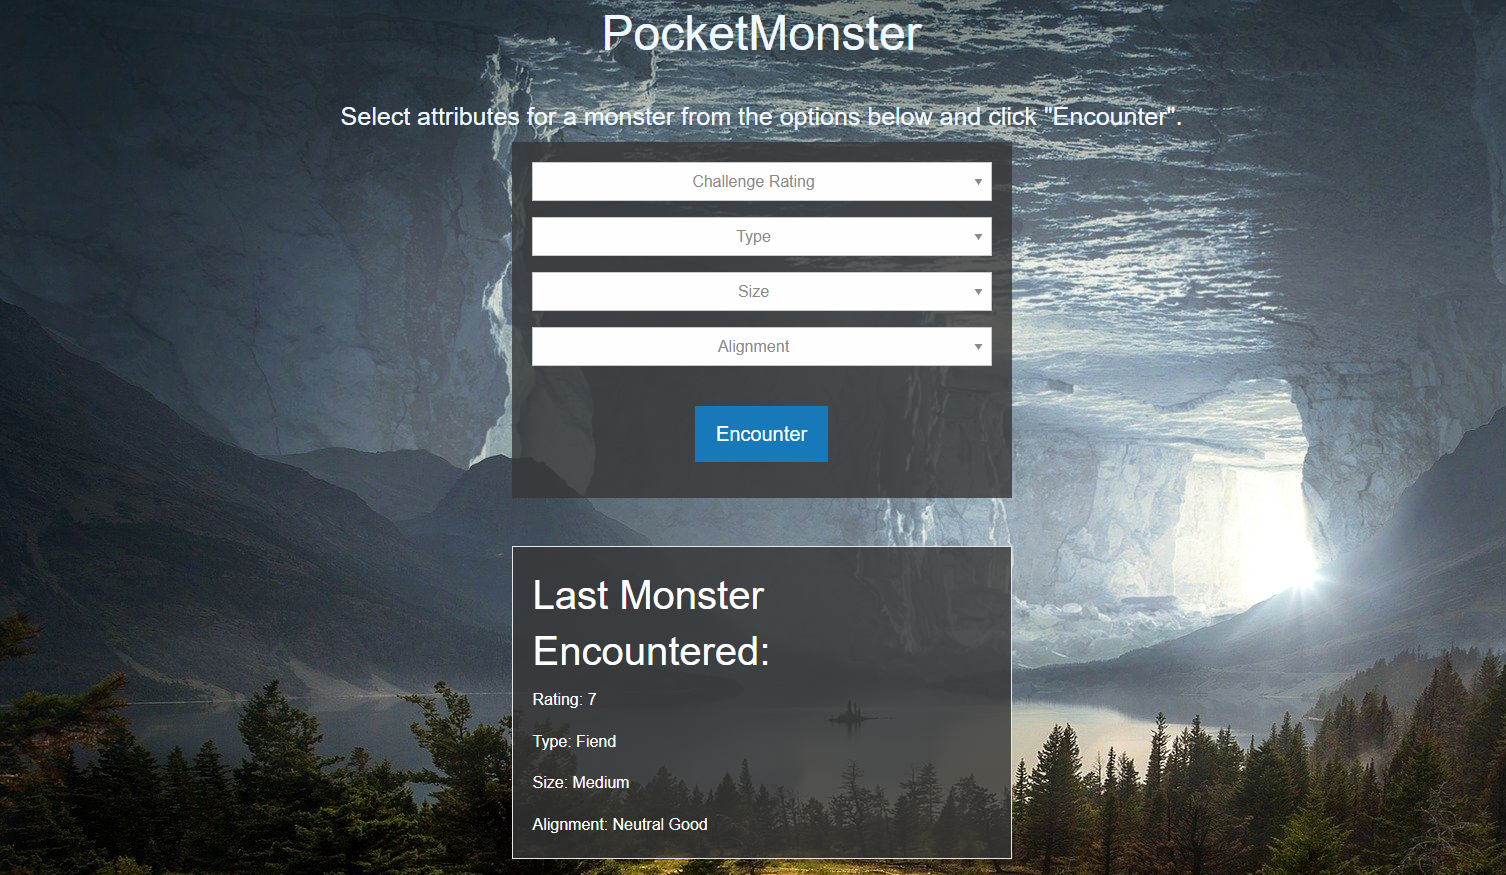
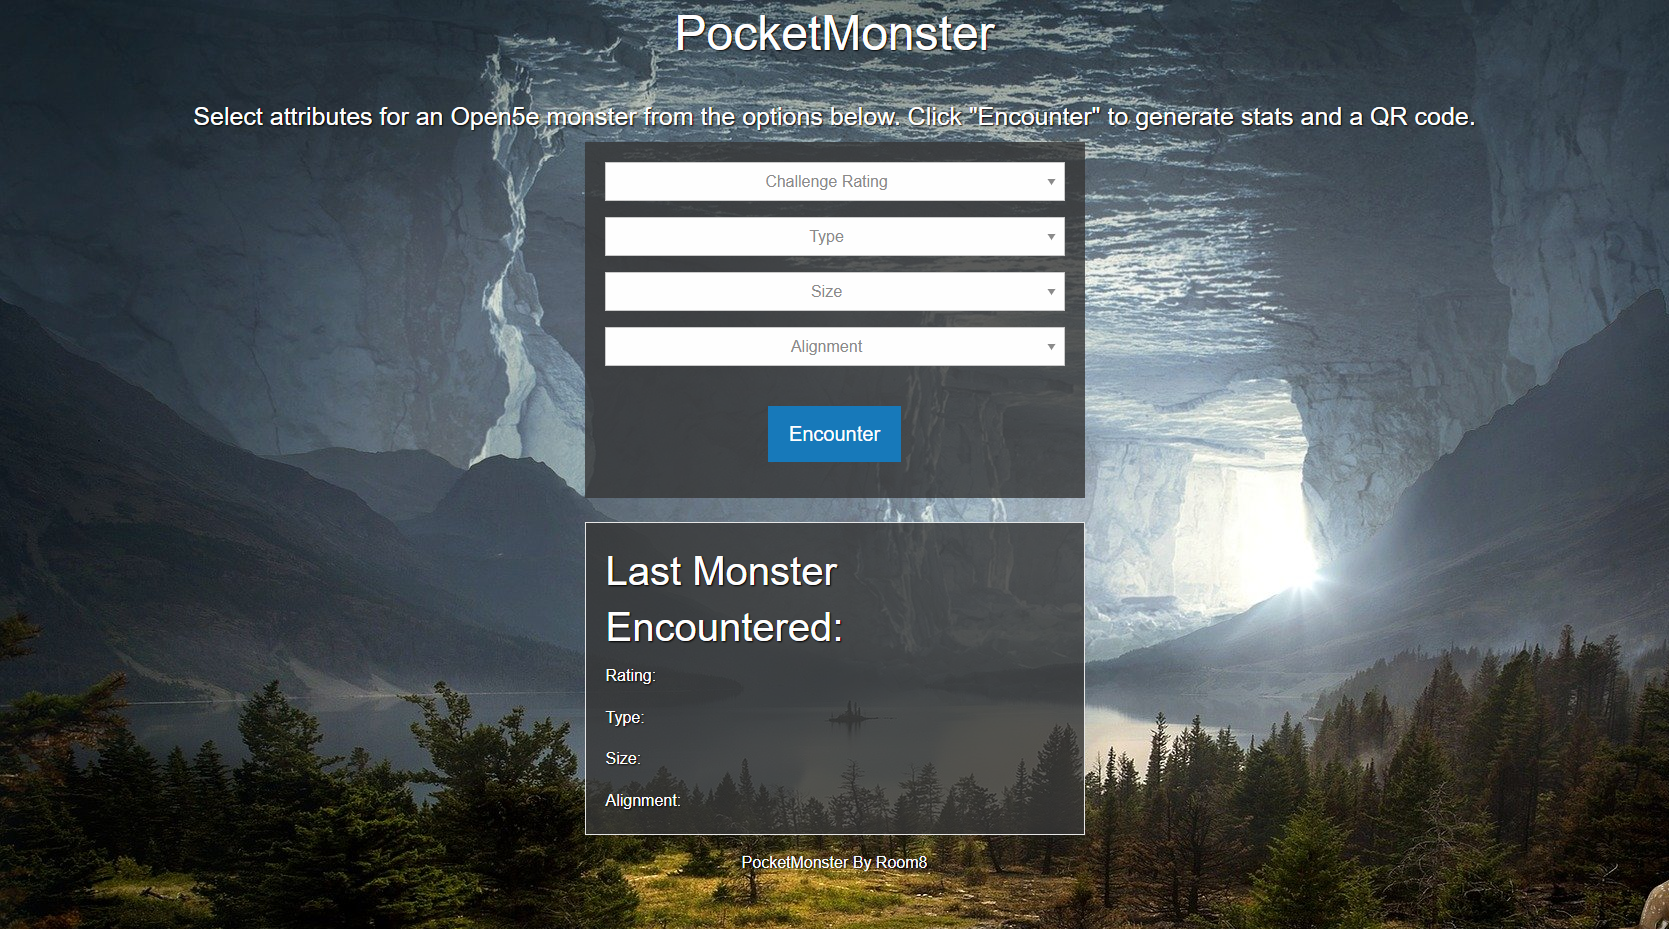
updating css and readme and screenshots. Added classes to index.html abd randomizedresults.html.

diff --git a/randomizedresults.html b/randomizedresults.html
@@ -8,13 +8,15 @@
   <title>PocketMonster</title>
   <!-- Compressed CSS -->
   <link rel="stylesheet" href="https://cdn.jsdelivr.net/npm/foundation-sites@6.7.4/dist/css/foundation.min.css"
-  crossorigin="anonymous">
+    crossorigin="anonymous">
   <link rel="stylesheet" href="./assets/css/style.css">
 </head>
 
 <body class="background">
-  <header class="relative text-center bg-white z-10 pb-8 sm:pb-16 md:pb-20 lg:max-w-2xl lg:w-full lg:pb-28 xl:pb-32"><h1 class="monsterTitle text-center"></h1></header>
-    <!--MAIN INFORMATION-->
+  <header class="relative text-center bg-white z-10 pb-8 sm:pb-16 md:pb-20 lg:max-w-2xl lg:w-full lg:pb-28 xl:pb-32">
+    <h1 class="monsterTitle text-center"></h1>
+  </header>
+  <!--MAIN INFORMATION-->
   <main class="main">
     <div class="grid-container text-center card translucent-form-overlay">
       <div class="medium-9 cell grid-x">
@@ -50,45 +52,49 @@
           <h4 class="">Alignment:</h4>
           <div class="alignment text-center"></div>
         </div>
-        </div>
       </div>
+    </div>
 
-      <!-- STAT BLOCK -->
-      <div class="grid-container text-center card translucent-form-overlay">
-        <h2 class="text-center">STATS</h2>
-        <div class="grid-container grid-x">
-          <div class="grid-container">
-            <div class="strength-text">STR</div>
-            <div class="dexterity-text">DEX</div>
-            <div class="constitution-text">CON</div>
-            <div class="charisma-text">CHA</div>
-            <div class="intelligence-text">INT</div>
-            <div class="wisdom-text">WIS</div>
-          </div>
-          <div class="grid-container">
-            <div class="strength"></div>
-            <div class="dexterity"></div>
-            <div class="constitution"></div>
-            <div class="charisma"></div>
-            <div class="intelligence"></div>
-            <div class="wisdom"></div>
-          </div>
+    <!-- STAT BLOCK -->
+    <div class="grid-container text-center card translucent-form-overlay">
+      <h2 class="text-center">STATS</h2>
+      <div class="grid-container grid-x">
+        <div class="grid-container">
+          <div class="strength-text">STR</div>
+          <div class="dexterity-text">DEX</div>
+          <div class="constitution-text">CON</div>
+          <div class="charisma-text">CHA</div>
+          <div class="intelligence-text">INT</div>
+          <div class="wisdom-text">WIS</div>
+        </div>
+        <div class="grid-container">
+          <div class="strength"></div>
+          <div class="dexterity"></div>
+          <div class="constitution"></div>
+          <div class="charisma"></div>
+          <div class="intelligence"></div>
+          <div class="wisdom"></div>
         </div>
       </div>
-      <div class="grid-container text-center translucent-form-overlay">
+    </div>
+    <div class="grid-container text-center translucent-form-overlay">
       <img class="" id="qr" src="">
-      </div>
-      <br/>
+    </div>
+    <br />
     <!-- SEARCH HISTORY/LOCAL STORAGE -->
     <div class="grid-container text-center card translucent-form-overlay">
       <h3>Search History</h3>
       <ul id="monsterHistory"></ul>
     </div>
   </main>
-  
-  <footer class="orbit-caption text-center">PocketMonster</footer>
+  <br />
+  <div>
+    <footer class="text-center">PocketMonster By Room8</footer>
+  </div>
+
 
 </body>
 <script src="./assets/js/randomizedresults.js"></script>
 <script src="./assets/js/script.js"></script>
+
 </html>

diff --git a/index.html b/index.html
@@ -7,8 +7,8 @@
     <meta name="viewport" content="width=device-width, initial-scale=1.0">
     <meta http-equiv="X-UA-Compatible" content="ie=edge">
     <!-- Compressed CSS -->
-    <!-- Compressed CSS -->
-    <link rel="stylesheet" href="https://cdn.jsdelivr.net/npm/foundation-sites@6.7.4/dist/css/foundation.min.css" crossorigin="anonymous">
+    <link rel="stylesheet" href="https://cdn.jsdelivr.net/npm/foundation-sites@6.7.4/dist/css/foundation.min.css"
+        crossorigin="anonymous">
     <link rel="stylesheet" href="./assets/css/style.css" />
     <title>PocketMonster</title>
 </head>
@@ -18,11 +18,12 @@
     <!-- Header -->
     <header class="relative text-center bg-white z-10 pb-8 sm:pb-16 md:pb-20 lg:max-w-2xl lg:w-full lg:pb-28 xl:pb-32">
         <h1>PocketMonster</h1>
-        <br/>
+        <br />
     </header>
 
     <main>
-        <h4 class="text-center">Select attributes for a monster from the options below and click "Encounter".</h4>
+        <h4 class="text-center">Select attributes for an Open5e monster from the options below. Click "Encounter" to
+            generate stats and a QR code.</h4>
         <!-- Attribute entry form -->
         <form id="search-form" class="grid-container text-center translucent-form-overlay">
             <!-- Challenge Rating Option Box -->
@@ -118,7 +119,6 @@
             </div>
         </form>
         <br />
-        <br />
         <!-- Local Storage Last Attributes Searched -->
         <div class="card grid-container translucent-form-overlay">
             <h2>Last Monster Encountered:</h2>
@@ -128,6 +128,7 @@
             <p>Alignment: <span id="savedAlignment"></span></p>
         </div>
     </main>
+    <footer class="text-center">PocketMonster By Room8</footer>
     <!-- Compressed JavaScript -->
     <script src="https://cdn.jsdelivr.net/npm/foundation-sites@6.7.4/dist/js/foundation.min.js"
         crossorigin="anonymous"></script>

diff --git a/assets/css/style.css b/assets/css/style.css
@@ -1,11 +1,13 @@
 /* Sets background image of initial page */
 .background {
-    background-image: url("https://pixabay.com/get/g3be7be38660775ff0c4601d2a1695a24229d8608df6fb4e70556e67d21e2987872ee54e708a524904a916c2520510e2f6294e57aa45982c2b823ee7f1d945faa724ef15161e0283f48fd5ada634a3411_1920.jpg");
-
+    background-image: url("https://pixabay.com/get/g95e112befaa6aafd8770f90dc6981b3173bc15d81b03e3e244d1200b039ed8dbea394efdc78fa12bba7584312ed5361d35b2ee23e9be82d140588e9eb5faec9e476dbe1e7cbefeca4933d9b16e5268ca_1920.jpg");
+    background-repeat: no-repeat;
 }
 
-h1, h4 {
-    color: aliceblue;
+/* Font color and shadow on headers */
+h1, h4, footer {
+  color: #fefefe;
+  text-shadow: 1px 1px 2px black;
 }
 
 /* controls form overlay */
@@ -15,13 +17,13 @@ h1, h4 {
     background-color: rgba(54, 54, 54, 0.8);
     padding: 20px;
     color: #fefefe;
+    text-shadow: 1px 1px 2px black;
   }
   
   .translucent-form-overlay .columns.row {
     display: block;
   }
-  
-  
+    
   .translucent-form-overlay input, .translucent-form-overlay select {
     color: #8a8a8a;
   }

diff --git a/README.md b/README.md
@@ -6,7 +6,7 @@ Create a QR for a Dungeons and Dragons Monster
 
 ```
 [AS A] Dungeon Master 
-[I WANT] to easily generate a Dungeons and Dragons 5e monster 
+[I WANT] to easily generate an Open5e monster 
 [SO THAT] I can send it to my players
 [GIVEN] I enter the attributes I would like the monster to have 
 [WHEN] I click the search button 
@@ -14,9 +14,9 @@ Create a QR for a Dungeons and Dragons Monster
 ```
 ## Project Description
 ---
-On page load, the user will be presented with project title (PocketMonster), brief description of its function, and a form with dropdown boxes for monster selection criteria. The last monster that was encountered (searched for) will be displayed on the homepage using local storage.
+On page load, the user will be presented with project title (PocketMonster), a brief description of its function, and a form with dropdown boxes for Open5e monster selection criteria. The last monster that was encountered (searched for) will be displayed on the homepage using local storage.
 
-Upon submission of the form, the user will be directed to a new page with a monster statblock (layout designed by us), and a QR code that links to the original statblock hosted on the API.
+Upon submission of the form, the user will be directed to a new page with a monster statblock (layout designed by us), and a QR code that links to the original statblock hosted on the Open5e API.
 
 
 - [PocketMonster Git Hub Repository](https://github.com/areitan/PocketMonster)
@@ -36,47 +36,59 @@ Upon submission of the form, the user will be directed to a new page with a mons
 
 ### Wireframing
 
-1. After brainstorming for our project idea and deciding on 2 API's, we drew out some simple sketches of our potential site.
-
+1. After brainstorming for our project idea and deciding on 2 API's.
+    * API 1: Open5E Open source resource for the 5th edition Dungeons and Dragons content provided under OGL 1.0a
+    * API 2: goQR.me QR code generator
+2. We drew out some simple sketches of our potential site.
 
 ### Kanban board
 
 1. We decided to use a Kanban Board to help organize and assign tasks.
 2. We divided the Kanban Board into 4 sections
-    * The Icebox is the container for things we'd like to add after we have our minimum viable product. 
-    * The To-Do container where tasks are waiting to be assigned. 
+    * The "Icebox" is the container for things we'd like to add after we have our minimum viable product. 
+    * The "To-Do" container where tasks are waiting to be assigned. 
     * The In-process container is for things we're working on and that are assigned.
-    * The Completed container is for items that we feel are complete at t his point.
+    * The "Completed" container is for items that we feel are complete at t his point.
+3. We used the Kanban board to assign tasks and then follow up on them. It was a great way to make sure we didn't forget to handle tasks along the way.    
+4. We moved tasks through the containers reflecting the progress of the project.
 
 
 ### index.html and randomizedresults.html
 
-1. We added id's to the inputs and other areas of the ```HTML``` we wanted our ```.js``` file to interact with.
-2. We added Zurb Foundation classes to structure our page.
-3. Foundation had a building block template we used to create the translucent effect on the option boxes and the last monster encountered section.
+1. index.html is the initial page of our application. The user is presented with option boxes for entering search criteria. On clicking "Encounter", the user is redirected to randomizedresults.html where they will find a QR code for a monster and the monster stats. The last search criteria from index.html are saved in local storage and persist on that page in the "Last Monster Encountered" section.
+2. We added id's to the inputs and other areas of the ```HTML``` we wanted our ```.js```  and ```.css``` file to interact with.
+3. We added Zurb Foundation classes to structure our pages and add some of the styling.
+4. Foundation had a building block template we used to create the translucent effect on the option boxes and the last monster encountered section.
 
 
-### script.js
+### script.js and randomizedresults.js
 
-1. We added variables for the inputs from ```index.html``` that I needed for traversing the DOM and maintaining user inputs in local storage.
-2. We used JSON and the ```localStorage.getItem()``` and ```localStorage.setItem()``` to pupt information into local storage and retrieve it for display.
-3. We added an ```if``` statement to set the ```HTML``` elements to display the last saved user inputs. 
+1. script.js handles the inputs from index.html, stores that information in local storage, and uses it to fetch information from the Open5e API. That information also is sent to the goQR.me API to return a QR code for the selected monster.
+2. randomizedresults.js gets the monster information and displays it on the results page.
+3. We added variables for the inputs from ```index.html``` that we needed for traversing the DOM and maintaining user inputs in local storage.
+4. We used JSON and the ```localStorage.getItem()``` and ```localStorage.setItem()``` to ouput information into local storage and retrieve it for display.
+5. We added an ```if``` statement to set the ```HTML``` elements to display the last saved user inputs. 
 
 ### style.css
 
-1. We decided to use tailwind as our CSS framework, but found that installing it wasn't working so in the interest of time, we changed to Foundation.
-2. We added some code from a Foundation template to control the translucent overlay for the form and local storage display.
+1. We decided to use tailwind as our CSS framework, but found that installing it wasn't working so in the interest of time, we changed to Zurb Foundation.
+2. We added some code from a Foundation building-block template to control the translucent overlay for the form, local storage, and results page displays.
+3. We added a background image to enhance the appearance of the application.
 
 
 ## How To Contribute
 ---
 
-Suggestions are welcome.
+1. Suggestions are welcome. There are several things we wanted to add, but we ran out of time. 
+    * We thought it would be nice to include images on the result page for each monster type. We had thought about using the NY Public Library API to do this.
+    * We had considered adding conditional color formatting to QR codes. 
 
 
 ## Credits
 ---
 
-- [Pixabay Free Stock Photos](https://pixabay.com/)
+- [Open5e](https://open5e.com/)
+- [goQR.me](https://goqr.me/api/)
+- [Pixabay Free Stock Photos: Image by Stefan Keller](https://pixabay.com/photos/fantasy-cave-mystical-rock-stone-2750995/)
 - [Zurb Foundation: Translucent Form Overlay](https://get.foundation/building-blocks/blocks/translucent-form-overlay.html)
 - Trilogy Education Services, LLC, a 2U, Inc. brand
